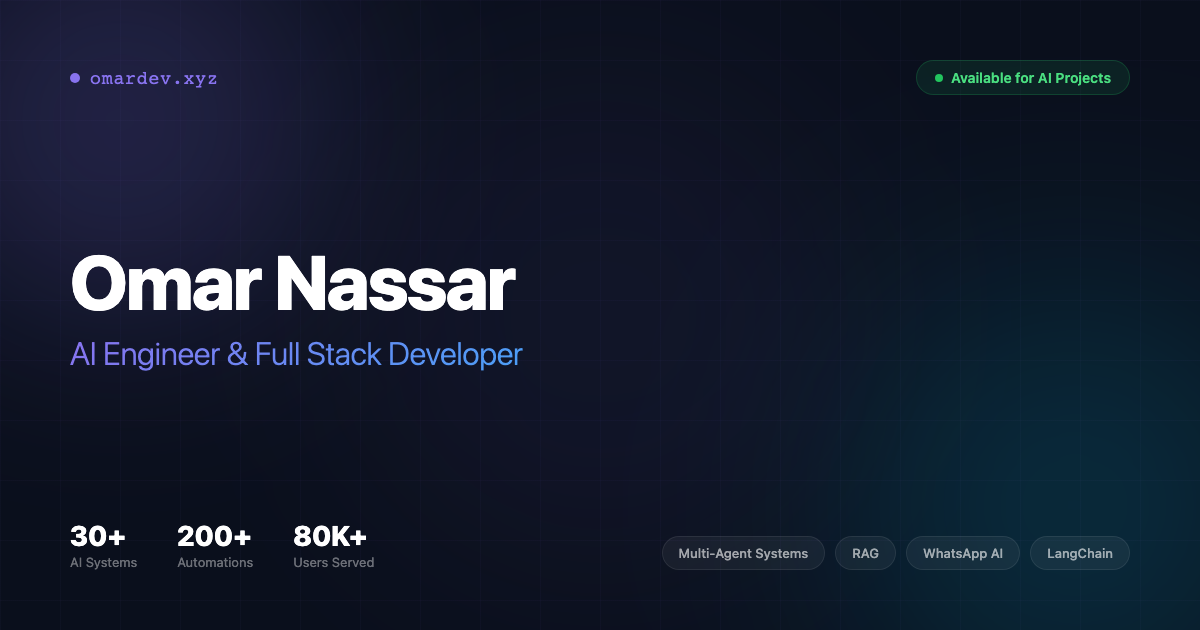
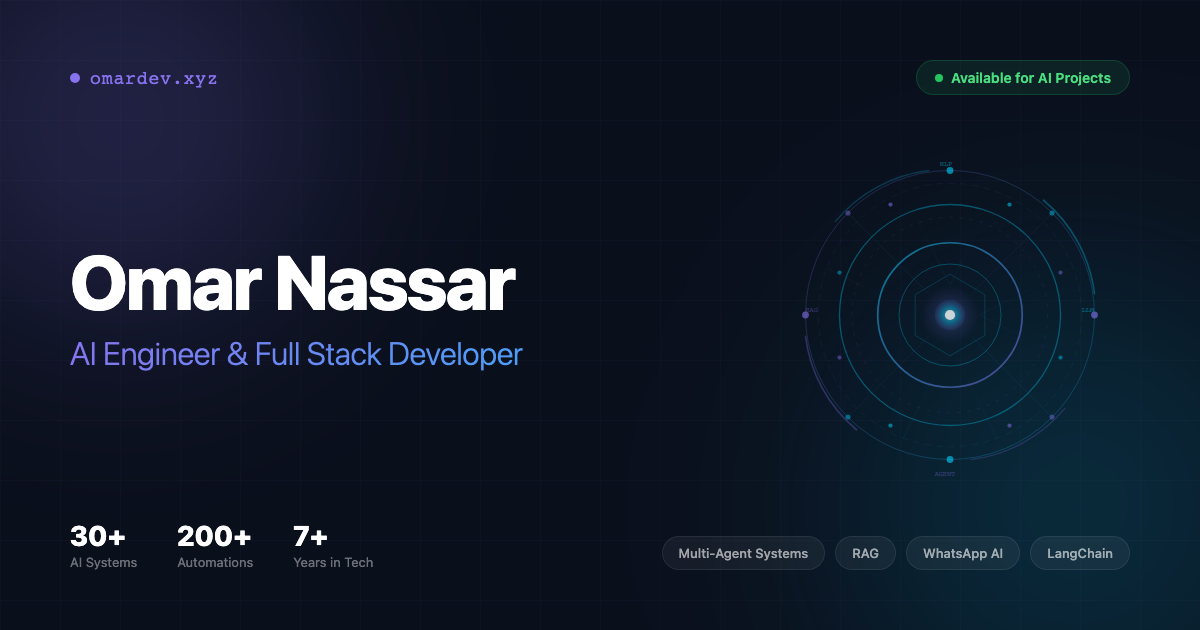
done

diff --git a/scripts/generate-og.html b/scripts/generate-og.html
@@ -17,138 +17,76 @@
       padding: 60px 70px;
       font-family: -apple-system, BlinkMacSystemFont, 'Segoe UI', system-ui, sans-serif;
     }
-    /* Gradient blobs */
     .blob1 {
-      position: absolute;
-      top: -80px;
-      left: -80px;
-      width: 400px;
-      height: 400px;
-      background: rgba(136, 115, 239, 0.2);
-      border-radius: 50%;
-      filter: blur(100px);
+      position: absolute; top: -80px; left: -80px;
+      width: 400px; height: 400px;
+      background: rgba(136, 115, 239, 0.2); border-radius: 50%; filter: blur(100px);
     }
     .blob2 {
-      position: absolute;
-      bottom: -100px;
-      right: -100px;
-      width: 450px;
-      height: 450px;
-      background: rgba(0, 212, 255, 0.15);
-      border-radius: 50%;
-      filter: blur(120px);
+      position: absolute; bottom: -100px; right: -100px;
+      width: 450px; height: 450px;
+      background: rgba(0, 212, 255, 0.15); border-radius: 50%; filter: blur(120px);
     }
-    .blob3 {
-      position: absolute;
-      top: 50%;
-      left: 50%;
-      transform: translate(-50%, -50%);
-      width: 500px;
-      height: 500px;
-      background: rgba(136, 115, 239, 0.06);
-      border-radius: 50%;
-      filter: blur(100px);
-    }
-    /* Grid pattern */
     .grid {
-      position: absolute;
-      inset: 0;
+      position: absolute; inset: 0;
       background-image:
         linear-gradient(rgba(136, 115, 239, 0.03) 1px, transparent 1px),
         linear-gradient(90deg, rgba(136, 115, 239, 0.03) 1px, transparent 1px);
       background-size: 60px 60px;
     }
-    .content { position: relative; z-index: 1; }
-    .top {
-      display: flex;
-      align-items: center;
-      justify-content: space-between;
-    }
+    .content { position: relative; z-index: 2; }
+    .top { display: flex; align-items: center; justify-content: space-between; }
     .domain {
-      display: flex;
-      align-items: center;
-      gap: 10px;
-      color: #8873ef;
-      font-size: 18px;
-      font-family: 'SF Mono', 'Fira Code', monospace;
-      letter-spacing: 0.05em;
+      display: flex; align-items: center; gap: 10px;
+      color: #8873ef; font-size: 18px;
+      font-family: 'SF Mono', 'Fira Code', monospace; letter-spacing: 0.05em;
     }
-    .domain-dot {
-      width: 10px;
-      height: 10px;
-      border-radius: 50%;
-      background: #8873ef;
-    }
+    .domain-dot { width: 10px; height: 10px; border-radius: 50%; background: #8873ef; }
     .status {
-      display: flex;
-      align-items: center;
-      gap: 8px;
-      padding: 8px 18px;
-      border-radius: 100px;
-      background: rgba(34, 197, 94, 0.1);
-      border: 1px solid rgba(34, 197, 94, 0.2);
+      display: flex; align-items: center; gap: 8px;
+      padding: 8px 18px; border-radius: 100px;
+      background: rgba(34, 197, 94, 0.1); border: 1px solid rgba(34, 197, 94, 0.2);
     }
-    .status-dot {
-      width: 8px;
-      height: 8px;
-      border-radius: 50%;
-      background: #22c55e;
-    }
-    .status-text {
-      color: #4ade80;
-      font-size: 14px;
-      font-weight: 600;
-    }
-    .middle { position: relative; z-index: 1; }
+    .status-dot { width: 8px; height: 8px; border-radius: 50%; background: #22c55e; }
+    .status-text { color: #4ade80; font-size: 14px; font-weight: 600; }
+    .middle { position: relative; z-index: 2; }
     .name {
-      font-size: 76px;
-      font-weight: 800;
-      color: #ffffff;
-      letter-spacing: -0.02em;
-      line-height: 1.05;
-      margin-bottom: 12px;
+      font-size: 76px; font-weight: 800; color: #ffffff;
+      letter-spacing: -0.02em; line-height: 1.05; margin-bottom: 12px;
     }
     .title {
-      font-size: 32px;
-      font-weight: 300;
-      letter-spacing: -0.01em;
+      font-size: 32px; font-weight: 300; letter-spacing: -0.01em;
       background: linear-gradient(135deg, #8873ef, #00d4ff);
-      -webkit-background-clip: text;
-      -webkit-text-fill-color: transparent;
+      -webkit-background-clip: text; -webkit-text-fill-color: transparent;
     }
     .bottom {
-      display: flex;
-      align-items: flex-end;
-      justify-content: space-between;
-      position: relative;
+      display: flex; align-items: flex-end; justify-content: space-between;
+      position: relative; z-index: 2;
+    }
+    .stats { display: flex; gap: 40px; }
+    .stat-value { font-size: 28px; font-weight: 800; color: #fff; }
+    .stat-label { font-size: 13px; color: rgba(255,255,255,0.4); margin-top: 2px; }
+    .tags { display: flex; gap: 10px; }
+    .tag {
+      padding: 8px 16px; border-radius: 100px; font-size: 13px; font-weight: 500;
+      background: rgba(255,255,255,0.05); border: 1px solid rgba(255,255,255,0.08);
+      color: rgba(255,255,255,0.6);
+    }
+
+    /* JARVIS AI Brain visualization */
+    .jarvis {
+      position: absolute;
+      right: 80px;
+      top: 50%;
+      transform: translateY(-50%);
+      width: 340px;
+      height: 340px;
       z-index: 1;
     }
-    .stats {
-      display: flex;
-      gap: 40px;
-    }
-    .stat-value {
-      font-size: 28px;
-      font-weight: 800;
-      color: #fff;
-    }
-    .stat-label {
-      font-size: 13px;
-      color: rgba(255,255,255,0.4);
-      margin-top: 2px;
-    }
-    .tags {
-      display: flex;
-      gap: 10px;
-    }
-    .tag {
-      padding: 8px 16px;
-      border-radius: 100px;
-      font-size: 13px;
-      font-weight: 500;
-      background: rgba(255,255,255,0.05);
-      border: 1px solid rgba(255,255,255,0.08);
-      color: rgba(255,255,255,0.6);
+    .jarvis svg {
+      width: 100%;
+      height: 100%;
+      opacity: 0.85;
     }
   </style>
 </head>
@@ -156,8 +94,122 @@
   <div class="og">
     <div class="blob1"></div>
     <div class="blob2"></div>
-    <div class="blob3"></div>
     <div class="grid"></div>
+
+    <!-- JARVIS-style AI brain -->
+    <div class="jarvis">
+      <svg viewBox="0 0 400 400" fill="none" xmlns="http://www.w3.org/2000/svg">
+        <!-- Outer ring -->
+        <circle cx="200" cy="200" r="170" stroke="url(#grad1)" stroke-width="1" opacity="0.3"/>
+        <circle cx="200" cy="200" r="155" stroke="url(#grad1)" stroke-width="0.5" opacity="0.2" stroke-dasharray="8 6"/>
+
+        <!-- Middle rings -->
+        <circle cx="200" cy="200" r="130" stroke="#00d4ff" stroke-width="1.5" opacity="0.4"/>
+        <circle cx="200" cy="200" r="115" stroke="#8873ef" stroke-width="0.5" opacity="0.3" stroke-dasharray="4 8"/>
+
+        <!-- Inner core ring -->
+        <circle cx="200" cy="200" r="85" stroke="url(#grad2)" stroke-width="2" opacity="0.6"/>
+        <circle cx="200" cy="200" r="60" stroke="#00d4ff" stroke-width="1" opacity="0.4"/>
+
+        <!-- Core glow -->
+        <circle cx="200" cy="200" r="35" fill="url(#coreGlow)" opacity="0.8"/>
+        <circle cx="200" cy="200" r="18" fill="url(#coreCenter)" opacity="0.9"/>
+        <circle cx="200" cy="200" r="6" fill="#ffffff" opacity="0.9"/>
+
+        <!-- Neural connection lines radiating from center -->
+        <!-- Top -->
+        <line x1="200" y1="165" x2="200" y2="45" stroke="url(#lineGrad)" stroke-width="0.8" opacity="0.4"/>
+        <line x1="200" y1="165" x2="145" y2="55" stroke="url(#lineGrad)" stroke-width="0.5" opacity="0.25"/>
+        <line x1="200" y1="165" x2="255" y2="55" stroke="url(#lineGrad)" stroke-width="0.5" opacity="0.25"/>
+
+        <!-- Right -->
+        <line x1="235" y1="200" x2="355" y2="200" stroke="url(#lineGrad2)" stroke-width="0.8" opacity="0.4"/>
+        <line x1="235" y1="200" x2="345" y2="145" stroke="url(#lineGrad2)" stroke-width="0.5" opacity="0.25"/>
+        <line x1="235" y1="200" x2="345" y2="255" stroke="url(#lineGrad2)" stroke-width="0.5" opacity="0.25"/>
+
+        <!-- Bottom -->
+        <line x1="200" y1="235" x2="200" y2="355" stroke="url(#lineGrad)" stroke-width="0.8" opacity="0.4"/>
+        <line x1="200" y1="235" x2="145" y2="345" stroke="url(#lineGrad)" stroke-width="0.5" opacity="0.25"/>
+        <line x1="200" y1="235" x2="255" y2="345" stroke="url(#lineGrad)" stroke-width="0.5" opacity="0.25"/>
+
+        <!-- Left -->
+        <line x1="165" y1="200" x2="45" y2="200" stroke="url(#lineGrad2)" stroke-width="0.8" opacity="0.4"/>
+        <line x1="165" y1="200" x2="55" y2="145" stroke="url(#lineGrad2)" stroke-width="0.5" opacity="0.25"/>
+        <line x1="165" y1="200" x2="55" y2="255" stroke="url(#lineGrad2)" stroke-width="0.5" opacity="0.25"/>
+
+        <!-- Diagonal lines -->
+        <line x1="225" y1="175" x2="320" y2="80" stroke="#8873ef" stroke-width="0.5" opacity="0.2"/>
+        <line x1="175" y1="175" x2="80" y2="80" stroke="#00d4ff" stroke-width="0.5" opacity="0.2"/>
+        <line x1="225" y1="225" x2="320" y2="320" stroke="#00d4ff" stroke-width="0.5" opacity="0.2"/>
+        <line x1="175" y1="225" x2="80" y2="320" stroke="#8873ef" stroke-width="0.5" opacity="0.2"/>
+
+        <!-- Neural nodes on the rings -->
+        <circle cx="200" cy="30" r="4" fill="#00d4ff" opacity="0.7"/>
+        <circle cx="200" cy="370" r="4" fill="#00d4ff" opacity="0.7"/>
+        <circle cx="30" cy="200" r="4" fill="#8873ef" opacity="0.7"/>
+        <circle cx="370" cy="200" r="4" fill="#8873ef" opacity="0.7"/>
+
+        <circle cx="320" cy="80" r="3" fill="#00d4ff" opacity="0.5"/>
+        <circle cx="80" cy="80" r="3" fill="#8873ef" opacity="0.5"/>
+        <circle cx="320" cy="320" r="3" fill="#8873ef" opacity="0.5"/>
+        <circle cx="80" cy="320" r="3" fill="#00d4ff" opacity="0.5"/>
+
+        <!-- Nodes on middle ring -->
+        <circle cx="270" cy="70" r="2.5" fill="#00d4ff" opacity="0.6"/>
+        <circle cx="130" cy="70" r="2.5" fill="#8873ef" opacity="0.6"/>
+        <circle cx="330" cy="150" r="2.5" fill="#8873ef" opacity="0.5"/>
+        <circle cx="70" cy="150" r="2.5" fill="#00d4ff" opacity="0.5"/>
+        <circle cx="330" cy="250" r="2.5" fill="#00d4ff" opacity="0.5"/>
+        <circle cx="70" cy="250" r="2.5" fill="#8873ef" opacity="0.5"/>
+        <circle cx="270" cy="330" r="2.5" fill="#8873ef" opacity="0.6"/>
+        <circle cx="130" cy="330" r="2.5" fill="#00d4ff" opacity="0.6"/>
+
+        <!-- Arc segments on outer ring -->
+        <path d="M 310 65 A 170 170 0 0 1 370 175" stroke="#00d4ff" stroke-width="2" fill="none" opacity="0.35" stroke-linecap="round"/>
+        <path d="M 90 335 A 170 170 0 0 1 30 225" stroke="#8873ef" stroke-width="2" fill="none" opacity="0.35" stroke-linecap="round"/>
+        <path d="M 65 90 A 170 170 0 0 1 175 30" stroke="#00d4ff" stroke-width="1.5" fill="none" opacity="0.25" stroke-linecap="round"/>
+        <path d="M 335 310 A 170 170 0 0 1 225 370" stroke="#8873ef" stroke-width="1.5" fill="none" opacity="0.25" stroke-linecap="round"/>
+
+        <!-- Hexagon in the core -->
+        <polygon points="200,152 241,176 241,224 200,248 159,224 159,176" stroke="#00d4ff" stroke-width="1" fill="none" opacity="0.25"/>
+
+        <!-- Small data text labels -->
+        <text x="355" y="197" fill="#00d4ff" font-size="8" font-family="monospace" opacity="0.4">LLM</text>
+        <text x="30" y="197" fill="#8873ef" font-size="8" font-family="monospace" opacity="0.4">RAG</text>
+        <text x="188" y="25" fill="#00d4ff" font-size="8" font-family="monospace" opacity="0.4">NLP</text>
+        <text x="182" y="390" fill="#8873ef" font-size="8" font-family="monospace" opacity="0.4">AGENT</text>
+
+        <!-- Gradients -->
+        <defs>
+          <linearGradient id="grad1" x1="0%" y1="0%" x2="100%" y2="100%">
+            <stop offset="0%" stop-color="#8873ef"/>
+            <stop offset="100%" stop-color="#00d4ff"/>
+          </linearGradient>
+          <linearGradient id="grad2" x1="0%" y1="0%" x2="100%" y2="100%">
+            <stop offset="0%" stop-color="#00d4ff"/>
+            <stop offset="100%" stop-color="#8873ef"/>
+          </linearGradient>
+          <linearGradient id="lineGrad" x1="0%" y1="100%" x2="0%" y2="0%">
+            <stop offset="0%" stop-color="#00d4ff" stop-opacity="0.6"/>
+            <stop offset="100%" stop-color="#00d4ff" stop-opacity="0"/>
+          </linearGradient>
+          <linearGradient id="lineGrad2" x1="0%" y1="0%" x2="100%" y2="0%">
+            <stop offset="0%" stop-color="#8873ef" stop-opacity="0.6"/>
+            <stop offset="100%" stop-color="#8873ef" stop-opacity="0"/>
+          </linearGradient>
+          <radialGradient id="coreGlow" cx="50%" cy="50%" r="50%">
+            <stop offset="0%" stop-color="#00d4ff" stop-opacity="0.4"/>
+            <stop offset="60%" stop-color="#8873ef" stop-opacity="0.15"/>
+            <stop offset="100%" stop-color="#8873ef" stop-opacity="0"/>
+          </radialGradient>
+          <radialGradient id="coreCenter" cx="50%" cy="50%" r="50%">
+            <stop offset="0%" stop-color="#ffffff" stop-opacity="0.5"/>
+            <stop offset="50%" stop-color="#00d4ff" stop-opacity="0.4"/>
+            <stop offset="100%" stop-color="#8873ef" stop-opacity="0.1"/>
+          </radialGradient>
+        </defs>
+      </svg>
+    </div>
 
     <div class="top content">
       <div class="domain">
@@ -186,8 +238,8 @@
           <div class="stat-label">Automations</div>
         </div>
         <div>
-          <div class="stat-value">80K+</div>
-          <div class="stat-label">Users Served</div>
+          <div class="stat-value">7+</div>
+          <div class="stat-label">Years in Tech</div>
         </div>
       </div>
       <div class="tags">
